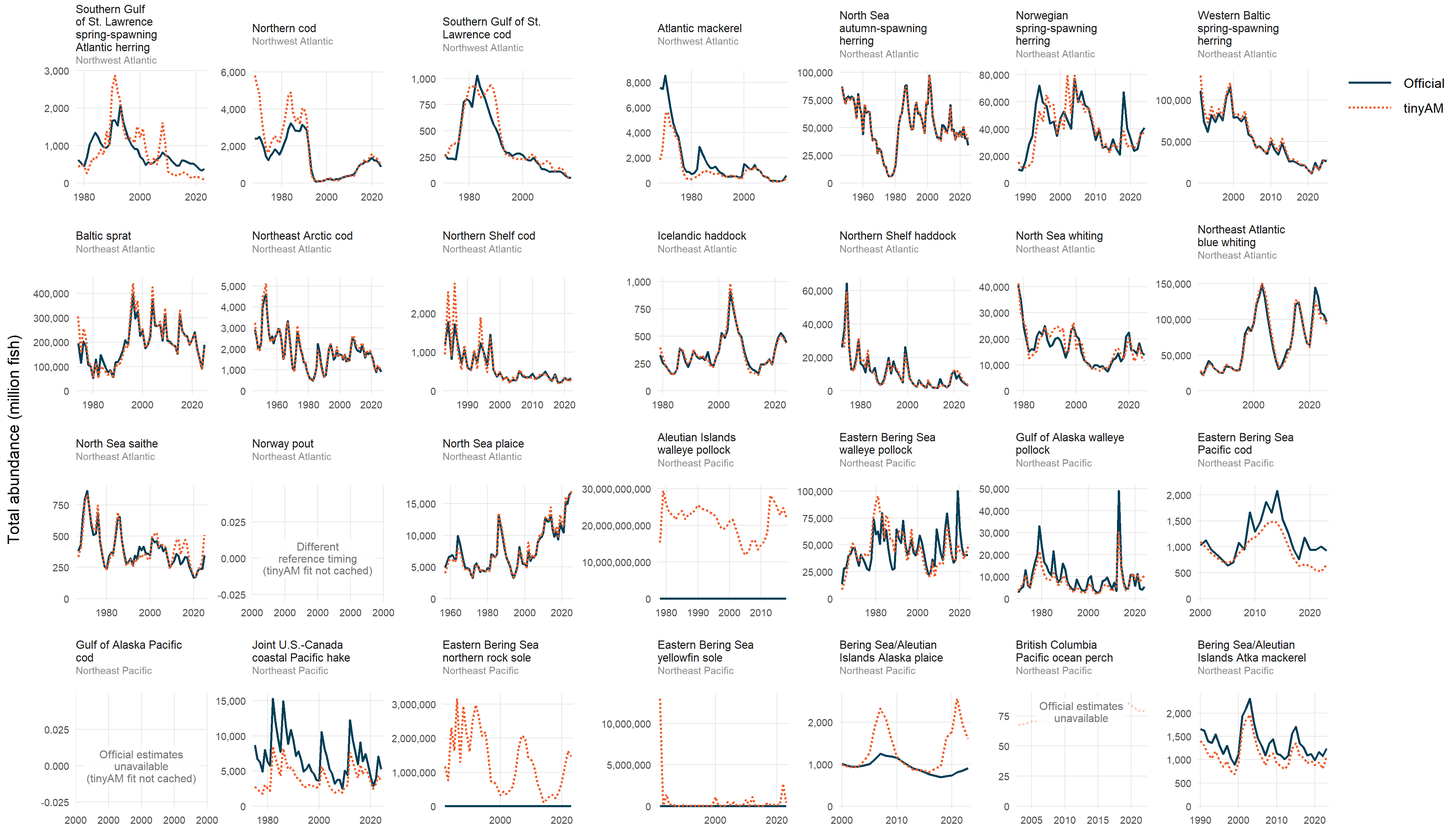
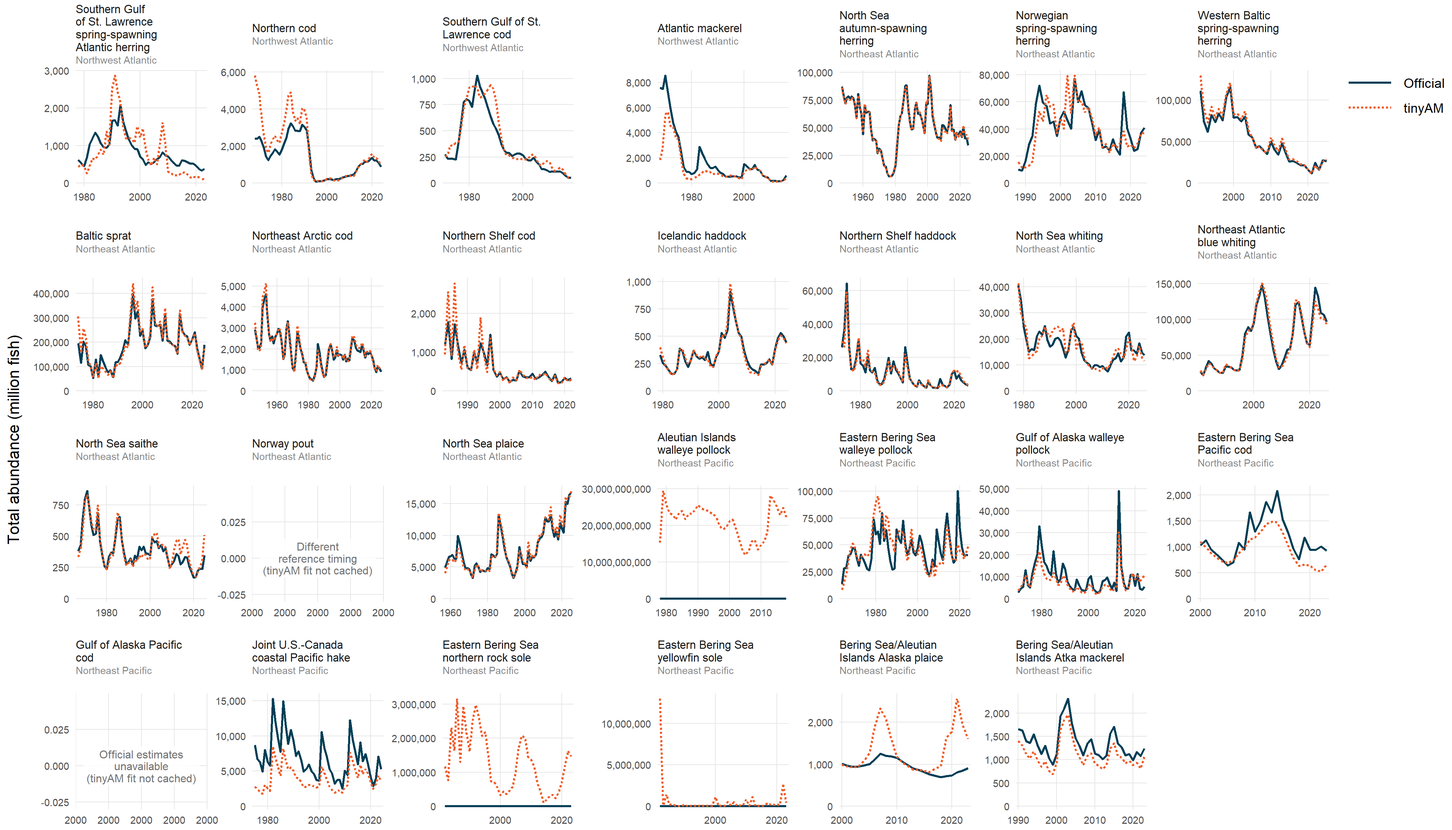
Block BC POP comparison pending official historical outputs

diff --git a/analysis/comp_assessments/PACIFIC_REVIEW.md b/analysis/comp_assessments/PACIFIC_REVIEW.md
@@ -1,6 +1,6 @@
 # Pacific expansion review
 
-The database now has 35 current detailed stock records, including twelve additional Pacific cases. Nine new cases received actual optimization attempts: five passed numerical checks, three returned non-converged fits and one was interrupted without usable reporting. Three cases are blocked before fitting. Eight new dashboards are cached locally. This falls short of twelve runnable, actually fitted translations; blocked guards are not counted as fitted recipes.
+The database has 35 current detailed stock records, including twelve additional Pacific cases. Nine new cases historically received actual optimization attempts. BC POP is now source-output blocked despite a numerical pass. The current status is four numerical passes, three non-converged fits, one interrupted run and four source blockers. Seven active new-case dashboards and the historical BC trial are cached locally. This falls short of twelve runnable translations; blocked guards are not counted as fitted recipes.
 
 The initial expansion retained existing stock specifications. The subsequent source/model review updates hake and BC POP mortality treatment, North Sea saithe initial abundance and Baltic sprat spawning time; other existing comparisons remain retained results. New diagnostics and comparisons come from the documented default-first attempts. Source additions were committed before their translation/readiness records and pushed separately. No core model mathematics changed.
 
@@ -10,9 +10,9 @@ Review thresholds are mean absolute percent difference >20, absolute terminal me
 
 The twelve new cases were reviewed against their cached source inputs, native prior equations and translation code. Per-stock source reviews retain the unit, timing, sex/area, likelihood and completeness findings. Canonical numerical inputs and official outputs were not changed.
 
-Hake's restored source log-M penalty improves median absolute SSB difference from 69.6% to 44.8% (r 0.619 to 0.751), total abundance from 71.8% to 42.8% (r 0.785 to 0.904), and age-2 recruitment from 77.8% to 55.2% (r 0.959 to 0.969). Hake M differs by 21.5%; BC POP M differs by 22.5% after a positive moment approximation to its source normal prior. Both retain finite shared log-M effect SEs. Native bounds and integration conventions remain different.
+Hake's restored source log-M penalty improves median absolute SSB difference from 69.6% to 44.8% (r 0.619 to 0.751), total abundance from 71.8% to 42.8% (r 0.785 to 0.904), and age-2 recruitment from 77.8% to 55.2% (r 0.959 to 0.969). Hake M differs by 21.5%, with finite shared log-M effect uncertainty. The historical BC POP M-prior trial also had finite uncertainty, but is now retired from comparison because annual population outputs have not been recovered. Native bounds and integration conventions remain different.
 
-EBS cod, Atka and Alaska plaice retain their baselines because alternatives fail checks or worsen other core comparisons. Northern rock sole still fails with verified M/q penalties restored; a random-N initializer passes numerical checks but yields implausible states and is rejected. AI pollock and yellowfin sole remain non-converged; later expensive yellowfin/POP trials are incomplete. The three source-blocked cases remain blocked.
+EBS cod, Atka and Alaska plaice retain their baselines because alternatives fail checks or worsen other core comparisons. Northern rock sole still fails with verified M/q penalties restored; a random-N initializer passes numerical checks but yields implausible states and is rejected. AI pollock and yellowfin sole remain non-converged; later expensive yellowfin/POP trials are incomplete. The original three source-blocked cases remain blocked, and BC POP is now a fourth.
 
 The related saithe free-initial-abundance change improves all five comparable core metrics; sprat now applies the source 40% pre-spawning fraction. Sprat's revised SSB definition is not a like-for-like agreement improvement. The full one-off trial log and table are retained in [the review checkpoint](https://github.com/PaulRegular/tinyAM/blob/e7b2ac6/analysis/comp_assessments/PACIFIC_MODEL_REVIEW.md); trial fits and initialization histories remain in the local gitignored cache. The experimental runners and duplicate table are retired from the routine workflow.
 
@@ -109,13 +109,12 @@ The related saithe free-initial-abundance change improves all five comparable co
 | New: Eastern Bering Sea Pacific cod | Total N |   19 | -28.8 | 0.861 | matched | Pooled empirical catch-age key and selectivity simplification |
 | New: Eastern Bering Sea Pacific cod | Recruitment | 35.6 | 20.9 | 0.697 | matched | Pooled empirical catch-age key and selectivity simplification |
 | New: Eastern Bering Sea Pacific cod | SSB | 21.7 | -56.7 | 0.581 | approximate | Pooled empirical catch-age key and selectivity simplification |
-| New: British Columbia Pacific ocean perch | M | 22.5 | -22.5 | — | matched; estimated | Approximate source M prior; pooled areas and missing historical outputs |
 
 Constant M series have no defined temporal correlation. A fixed approximation to source-estimated M is labelled explicitly; equality is not evidence that tinyAM estimated M successfully.
 
 ## New-case numerical outcomes
 
-SD-report creation is separate from usable uncertainty. In particular AI pollock, yellowfin sole and northern rock sole have failed curvature/covariance checks. The review restored source mortality information in hake and BC POP. Both pass numerical checks with finite shared log-M effect uncertainty; a numerical pass still does not establish scientific agreement.
+SD-report creation is separate from usable uncertainty. AI pollock, yellowfin sole and northern rock sole have failed curvature/covariance checks. Hake passes numerical checks with its restored source mortality information. BC POP's historical trial passed too, but its current diagnostic is a source-output blocker, not an optimizer failure. A numerical pass does not establish scientific agreement.
 
 | Case | Status | Code | Objective | Max gradient | SD report created | PD Hessian |
 | --- | --- | --- | --- | --- | --- | --- |
@@ -130,9 +129,9 @@ SD-report creation is separate from usable uncertainty. In particular AI pollock
 | New: Bering Sea/Aleutian Islands Pacific ocean perch | execution_failed | NA | — | — | NA | NA |
 | New: Joint U.S.-Canada coastal Pacific hake | converged |  0 | 1.19e+03 | 0.000868 | TRUE | TRUE |
 | New: Strait of Georgia Pacific herring | translation_failed | NA | — | — | NA | NA |
-| New: British Columbia Pacific ocean perch | converged |  0 | 2.21e+03 | 0.00164 | TRUE | TRUE |
+| New: British Columbia Pacific ocean perch | translation_failed | NA | — | — | NA | NA |
 
-Initial expansion fits drove M near zero (hake log-M SE 298.1; BC POP 1924.9). Restoring a shared source log-M penalty gives hake M 0.18335 with effect SE 0.09591. A positive moment approximation to the source normal prior gives BC POP M 0.04053 with effect SE 0.22890. Native hard bounds and integration conventions remain different. Each model specification uses normal starts first and at most one retry after numerical failure; poor agreement alone never triggers an initialization retry. Atka, Alaska plaice and hake used one conditional source-start optimization; EBS cod and BC POP passed from defaults. Both allowed attempts failed numerical checks for AI pollock, yellowfin sole and northern rock sole. The interrupted BSAI POP run lacks a completed attempt history; its stage is not guessed.
+Initial expansion fits drove M near zero (hake log-M SE 298.1; BC POP 1924.9). Restoring a shared source log-M penalty gives hake M 0.18335 with effect SE 0.09591. The retired BC POP trial used a positive moment approximation to the source normal prior, giving M 0.04053 with effect SE 0.22890. Native hard bounds and integration conventions remain different. Each model specification uses normal starts first and at most one retry after numerical failure; poor agreement alone never triggers an initialization retry. Atka, Alaska plaice and hake used one conditional source-start optimization; EBS cod and the historical BC POP trial passed from defaults. Both allowed attempts failed numerical checks for AI pollock, yellowfin sole and northern rock sole. The interrupted BSAI POP run lacks a completed attempt history; its stage is not guessed.
 
 ## Existing numerical or source blockers
 
@@ -159,7 +158,7 @@ Each entry below lists missing or incompatible core comparisons. Constant-series
 | New: Aleutian Islands walleye pollock | F-at-age: unavailable |
 | New: Joint U.S.-Canada coastal Pacific hake | F-at-age: unavailable |
 | New: Strait of Georgia Pacific herring | SSB: no fitted statistics; Recruitment: no fitted statistics; Total N: no fitted statistics; N-at-age: no fitted statistics; F-at-age: no fitted statistics; M: no fitted statistics |
-| New: British Columbia Pacific ocean perch | F-at-age: unavailable; N-at-age: unavailable; Total N: non_equivalent; Recruitment: non_equivalent; SSB: non_equivalent |
+| New: British Columbia Pacific ocean perch | SSB: no fitted statistics; Recruitment: no fitted statistics; Total N: no fitted statistics; N-at-age: no fitted statistics; F-at-age: no fitted statistics; M: no fitted statistics |
 | New: Aleutian Islands Pacific cod | SSB: no fitted statistics; Recruitment: no fitted statistics; Total N: no fitted statistics; N-at-age: no fitted statistics; F-at-age: no fitted statistics; M: no fitted statistics |
 | New: Bering Sea and Aleutian Islands arrowtooth flounder | SSB: no fitted statistics; Recruitment: no fitted statistics; Total N: no fitted statistics; N-at-age: no fitted statistics; F-at-age: no fitted statistics; M: no fitted statistics |
 
@@ -193,8 +192,8 @@ This checks aligned values only; it does not credit fixed M as successful estima
 - SoG herring: aggregate spawning-biomass survey with no observed survey ages; density-dependent M and discrete fleets also differ. No artificial age allocation or catch-only substitute.
 - AI cod: public September native fit differs from final November production run; final composition/weight inputs and SSB scaling unresolved.
 - Arrowtooth: no verified numerical likelihood compositions/age–length key or survey timing; recovered fitted N/F are not observations.
-- BC POP: female area pooling; only M is a recovered historical core comparison. The native reproductive-output/mature-biomass definition needs confirmation. Native intervals are 90%, not 95%.
+- BC POP: matching public inputs, constant M and terminal/reference summaries were recovered, but numerical historical N/F/recruitment/SSB were not. The case is blocked and excluded from comparison; the native reproductive-output/mature-biomass definition also needs confirmation. The source review documents the search and proposes U.S. West Coast petrale sole 2023, whose official model archive includes fitted historical outputs. Its native spawning output is eggs, not biomass; no replacement was fitted.
 - Other new fits omit source composition covariance, ageing error, normalized/sex/fleet selectivity constraints, and in some cases informative M/q priors. Zero composition categories retain source zero values but tinyAM lognormal observations treat them as missing.
 - Every new source file is cached with provenance. Completeness remains partial where likelihood arrays, activation, point conventions, biological inputs or joint posterior outputs are unresolved.
 
-See the per-stock source reviews, compact result CSVs and gitignored results/cache/<assessment_id>/dashboard.html for diagnostics and visual comparisons. Source-blocked records have no dashboard or invented optimizer. CAPABILITY_GAPS.md distinguishes supported features, approximations and source-data blockers.
+See the per-stock source reviews, compact result CSVs and gitignored results/cache/<assessment_id>/dashboard.html for diagnostics and visual comparisons. Source-blocked records have no current comparison dashboard or invented optimizer; the prior BC trial remains archived as historical work. CAPABILITY_GAPS.md distinguishes supported features, approximations and source-data blockers.

diff --git a/analysis/comp_assessments/source_reviews/dfo_pop_bc.md b/analysis/comp_assessments/source_reviews/dfo_pop_bc.md
@@ -2,10 +2,18 @@
 
 ## Production source
 
-The detailed 2023 assessment was published as Research Document 2025/004.
+**Current comparison status: blocked (2026-10-17).** Historical official
+population outputs were not recovered in the public-source revisit below.
+The source record stays in the database; it is excluded from comparison
+tables and figures. Earlier fitting results below are historical experiments.
+
+The detailed 2023 assessment was published as
+[Research Document 2025/004](https://waves-vagues.dfo-mpo.gc.ca/library-bibliotheque/41282565.pdf).
 This Canadian-managed assessment is a documented catalogue exception, not
 three new stock cases. The production coastwide run is **R21v3 / 21.01**,
-Stock Synthesis 3.30.20, with 2,000 retained posterior draws. The report and
+Stock Synthesis 3.30.20, with 2,000 retained posterior draws. The
+[public production directory](https://github.com/pbs-software/pbs-synth/tree/16f1d4368ad7d3e854219ca1c2d9d6353252c861/models/input/2023/POP/CST/Base/R21v3/21.01)
+contains inputs, rather than those fitted draws. The report and
 native files are cached under `source_cache/dfo_pop_bc/`; the pbs-synth
 revision is `16f1d4368ad7d3e854219ca1c2d9d6353252c861`.
 Use the validated 310-page Waves PDF. Two earlier DFO/publications downloads
@@ -109,3 +117,58 @@ separately from numerical convergence, without tuning or another fit.
 Replaced the omitted M prior with a positive lognormal approximation matching the native natural-scale normal mean 0.06 and SD 0.018. One shared log-M effect is estimated, not fixed to an official value; its density contributes once. Default starts pass (code 0, gradient 0.00164, PD Hessian); M is 0.04053 with effect SE 0.22890, versus official median 0.05229. The M difference is 22.5%, still flagged. Native bounds, exact normal density, posterior integration and sex/area structure differ. Historical N/F/R/SSB remain unavailable or non-equivalent; no agreement is claimed for them. Full M-surface intervals are not automatically propagated. Canonical observations and native 90% limits are unchanged.
 
 See [the complete twelve-case review](../PACIFIC_REVIEW.md#source-and-model-review) for paired median differences, correlations, diagnostics and rejected trials. Canonical numerical inputs and outputs are unchanged.
+
+## Public-output revisit — 2026-10-17
+
+Rechecked the complete, non-truncated repository inventory at the same
+`16f1d4368ad7d3e854219ca1c2d9d6353252c861` revision: 1,447 entries and 196
+files under the 2023 POP paths. Only the master branch exists; there are no
+tags or releases. The matching production directory contains inputs, while
+the reporting material contains scripts and terminal/reference-point summaries.
+No matching fitted `Report.sso`, parameter/posterior file, R object or numerical
+historical N/F/recruitment/SSB table was recovered. The cached research report's
+Appendix F presents historical trajectories graphically; its parameter and
+reference-point tables do not provide those annual series.
+
+Also searched the complete inventories of `pbs-assess/pacea`,
+`pbs-software/pbs-data` and `pbs-software/pbs-tools`. The POP datasets in
+PBSdata are biological age/maturity observations. PBStools' `pop.rep` is a
+legacy example with a different age/year structure, not this SS3 production
+assessment. Neither is a substitute for the 2023 fitted outputs. Inventories,
+branch/release responses and supporting files are cached in
+`source_cache/dfo_pop_bc/output_search/`, with URLs, revisions, retrieval dates
+and checksums in the existing manifest.
+
+The available constant sex-specific M, 2024 boundary biomass and terminal
+subarea/reference-point summaries cannot support the intended historical
+comparison. Recovering new fitted states from an unverified rerun, mixing
+older assessments or treating graph coordinates as exact tables would not
+resolve that gap. Reopening this case needs matching numerical historical
+outputs from the assessment authors or a public release, plus confirmation of
+the native spawning-output definition. No claim is made that the authors do
+not hold those outputs. No correspondence was sent.
+
+## Suggested alternative: U.S. West Coast petrale sole
+
+The [council's assessment list](https://www.pcouncil.org/stock-assessments-star-reports-stat-reports-rebuilding-analyses-terms-of-reference/groundfish-stock-assessment-documents/)
+provides the [detailed 2023 assessment](https://www.pcouncil.org/documents/status-of-petrale-sole-eopsetta-jordanialong-the-u-s-west-coast-in-2023/)
+and its [official model archive](https://www.pcouncil.org/documents/petrale-sole-2023-model-files-zip-file/). The
+archive was downloaded and inspected, not inferred from a link label. It
+contains `petrale_data.ss`, `petrale_control.ss`, `starter.ss`, `forecast.ss`,
+`Report.sso`, `CompReport.sso` and covariance output. `Report.sso` contains
+`TIME_SERIES`, `NUMBERS_AT_AGE` and `F_AT_AGE` sections, including historical
+recruitment and fishing rates. This is a different stock from Canadian
+petrale sole, and is a proposed replacement, not a new completed case.
+
+The report uses data through 2022, female/male states and ages through 40+.
+Native spawning output is in **trillions of eggs**; it must remain distinct
+from mature biomass. Official N, weights and maturity could support a separate
+common-definition biomass comparison, subject to curation. Fleet/season
+aggregation, likelihoods, ageing error and uncertainty still need review
+before fitting. No new translation or model fit was attempted. No matching
+identifier was found in the locally pinned Charbonneau catalogue, so any
+addition needs an explicit catalogue exception, not an invented identifier.
+
+The report and 25 MB model archive are cached with checksums under
+`source_cache/pfmc_petrale_2023_preflight/`. The public-output availability is
+verified, but this is a preflight, not a claim of replication readiness.

diff --git a/analysis/comp_assessments/PACIFIC_EXPANSION.md b/analysis/comp_assessments/PACIFIC_EXPANSION.md
@@ -56,15 +56,15 @@ committed separately and pushed to `comp-assessments`.
 | BSAI Pacific ocean perch | Interrupted after more than seven CPU hours | No completed attempt history, usable fit or dashboard |
 | Coastal Pacific hake | Passed after one source-start retry | Source M penalty restored in review; M 0.18335, finite effect SE; core comparisons improve but remain approximate |
 | SoG herring | Blocked before fitting | Aggregate spawning-biomass survey has no observed survey-age composition |
-| BC Pacific ocean perch | Passed from defaults | Source M prior approximated in review; M 0.04053, finite effect SE; other historical comparisons remain unavailable |
+| BC Pacific ocean perch | Source-output blocked after historical trial | Numerical checks passed, but matching historical N/F/recruitment/SSB outputs have not been recovered |
 
-Nine cases received actual optimization attempts: five numerical passes,
-three non-converged fits and one interrupted run. Eight dashboards are cached
-under `results/cache/<assessment_id>/dashboard.html`. The three blocked cases
-have explicit readiness guards, not invented observations or fitted recipes.
-This leaves a **shortfall of three actually attempted translations** against
-the twelve-case target. Numerical passes are not scientific agreement or
-evidence of useful uncertainty.
+Nine cases historically received actual optimization attempts, including the
+now-blocked BC POP trial. The current status is four numerical passes, three
+non-converged fits, one interrupted run and four source blockers. Seven active
+new-case dashboards and the historical BC trial are cached under
+`results/cache/<assessment_id>/dashboard.html`. Readiness guards prevent fitting
+blocked cases. The twelve-runnable-translation target remains unmet. Numerical
+passes are not scientific agreement or evidence of useful uncertainty.
 
 The complete cross-case flags, unavailable/non-equivalent comparisons,
 fixed-M checks and numerical outcomes are in [PACIFIC_REVIEW.md](PACIFIC_REVIEW.md).
@@ -120,5 +120,23 @@ outcomes above remain historical where superseded by that review.
   repeated for this analysis-only review; core package sources, tests and
   generated documentation are unchanged.
 - Selected dashboards and the agreement heatmap were refreshed. The revised
-  hake fit passes after one conditional N-start retry; BC POP passes from
-  defaults. Rejected, failed and time-limited trials remain cached separately.
+  hake fit passes after one conditional N-start retry; the historical BC POP
+  trial passed from defaults but is now retired from comparison. Rejected,
+  failed and time-limited trials remain cached separately.
+
+## BC POP output revisit — 2026-10-17
+
+The matching production repository, report tables and related public PBS
+repositories did not yield numerical historical N/F/recruitment/SSB outputs.
+BC POP is now blocked from fitting and excluded from the comparison summaries
+and plots; canonical inputs and official summaries are unchanged. See the
+[source review](source_reviews/dfo_pop_bc.md) for cached search evidence and the
+proposed U.S. West Coast petrale sole alternative. No replacement was fitted.
+
+The six targeted source, readiness, prior and reporting test files pass, as
+does database validation. Other stocks' diagnostic and comparison rows are
+unchanged. The agreement heatmap and four trend plots now contain the same
+27 cases; the 7-column, 4-row trend layout and grey ocean labels are retained.
+The full package suite passes with its one interactive-only skip. The full
+assessment-analysis suite and `R CMD check` were not repeated for this
+source-readiness/reporting change; package code and canonical tables are unchanged.

diff --git a/analysis/comp_assessments/CAPABILITY_GAPS.md b/analysis/comp_assessments/CAPABILITY_GAPS.md
@@ -5,11 +5,13 @@
 The database now contains **35 current detailed stock records**, including the
 twelve Pacific additions documented in [PACIFIC_REVIEW.md](PACIFIC_REVIEW.md).
 Completeness remains partial where source information is unresolved. Nine new
-cases received optimization attempts: five passed numerical checks, three did
-not converge and one was interrupted without usable reporting. Three additional
-cases are blocked before fitting. Eight new dashboards are cached locally.
-This is an explicit shortfall of three actually attempted translations against
-the requested twelve, not twelve successful replications.
+cases received optimization attempts. BC POP subsequently became source-output
+blocked despite passing numerical checks: constant M and boundary summaries do
+not provide a historical population comparison. The current twelve-case status
+is four numerical passes, three non-converged fits, one interrupted run and four
+source blockers. Seven active new-case dashboards and the historical BC trial
+are cached locally. Neither twelve runnable translations nor twelve successful
+replications have been achieved.
 
 - **Original likelihoods:** the new assessments generally fit total biomass and
   multinomial, Dirichlet-multinomial or correlated age/length compositions.
@@ -32,10 +34,11 @@ the requested twelve, not twelve successful replications.
 - **Priors and identification:** initial hake and BC POP fits drove M near zero.
   The [model review](PACIFIC_REVIEW.md#source-and-model-review) uses an existing fixed-SD Gaussian
   mean effect for one shared log-M level, without a free intercept that could
-  cancel its penalty. Hake retains the native log-M penalty; BC POP uses a
-  positive moment approximation to the native natural-scale normal prior.
-  Both now have finite shared-effect SEs and improved M comparisons, though
-  M still differs by more than 20%. Native bounds and posterior integration
+  cancel its penalty. Hake retains the native log-M penalty. The historical BC
+  POP trial used a positive moment approximation to the native natural-scale
+  normal prior, but is now excluded from comparisons because population outputs
+  are missing. Both trials had finite shared-effect SEs, though M still differed
+  by more than 20%. Native bounds and posterior integration
   remain different. Restoring verified M/q penalties did not resolve northern
   rock sole convergence; random initial N produced implausible states despite
   a numerical pass. Initial temporal-process priors, arbitrary q normalization
@@ -54,7 +57,13 @@ the requested twelve, not twelve successful replications.
 - **Source gaps:** AI cod's public September native run differs from its final
   November fit. Arrowtooth lacks matching likelihood arrays/keys and timing.
   SoG's public DDM ensemble ends in 2023, distinct from the interim 2025 DIM;
-  the two are not combined. Unverified activation/sharing/point conventions
+  the two are not combined. BC POP's matching public production files contain
+  inputs and terminal/reference summaries, but no recovered numerical historical
+  N/F/recruitment/SSB. Its source records remain canonical; a prior M-only trial
+  is not retained as a population comparison. U.S. West Coast petrale sole 2023
+  is a proposed alternative with verified public fitted outputs; its native
+  spawning output is eggs, not biomass (see the [source review](source_reviews/dfo_pop_bc.md)).
+  Unverified activation/sharing/point conventions
   remain unresolved, rather than being described as absent features.
 
 Full-library review flags use >20% mean absolute or terminal differences and

diff --git a/analysis/comp_assessments/README.md b/analysis/comp_assessments/README.md
@@ -120,9 +120,10 @@ Pacific expansion source reviews: [BSAI Pacific ocean perch](source_reviews/afsc
 [Strait of Georgia Pacific herring](source_reviews/dfo_herring_sog.md) is curated,
 but translation is blocked by its aggregate spawning-biomass survey without
 survey ages; it has not received a tinyAM fitting attempt.
-[British Columbia Pacific ocean perch](source_reviews/dfo_pop_bc.md) has a
-pooled female translation, with weakly identified M and an unresolved native
-spawning-output definition flagged for review.
+[British Columbia Pacific ocean perch](source_reviews/dfo_pop_bc.md) remains
+curated but is blocked from fitting and comparison: matching numerical historical
+population outputs have not been recovered. Earlier exploratory fits are archived;
+constant M and boundary biomass alone do not support the intended comparison.
 [Aleutian Islands Pacific cod](source_reviews/afsc_cod_ai.md) remains blocked
 pending native inputs matching the final production assessment.
 [BSAI arrowtooth flounder](source_reviews/afsc_arrowtooth_flounder_bsai.md)
